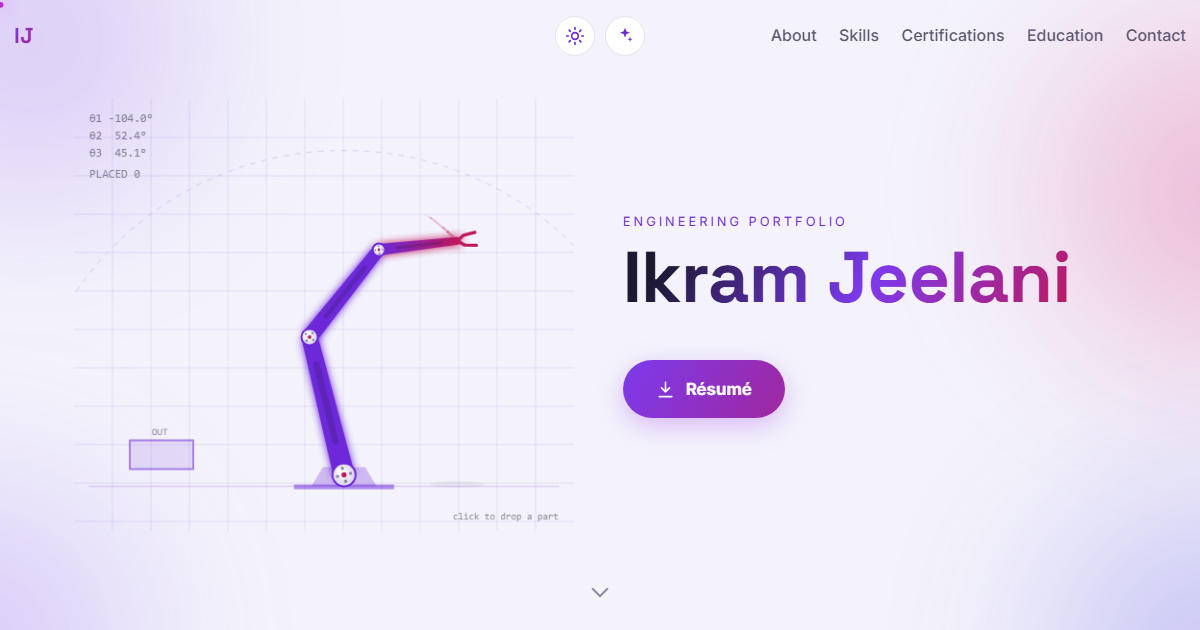
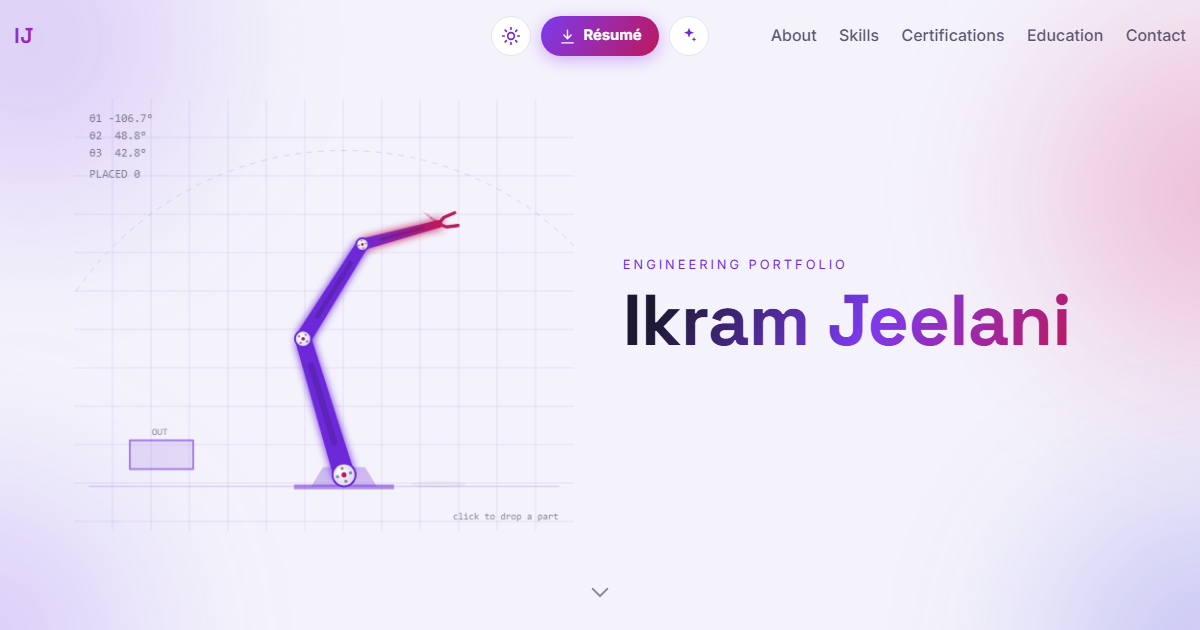
Remove the hero résumé button entirely — nav bar keeps the only résumé button now, present from first load with no scroll-triggered show/hide transition. Simplified all the crossfade/collapse machinery out of both main.js and styles.css since there's nothing left to swap between.
Fix sharing-preview image: SETTINGS.theme had been changed to "dark" but og:image/twitter:image in index.html and project.html were still pointing at the light screenshot (the static-reference limitation flagged in the previous commit actually bit us). Now correctly points at og-image-dark.png. Regenerated both og-image-light.png and og-image-dark.png to reflect the new nav-only button layout.

diff --git a/styles.css b/styles.css
@@ -247,49 +247,27 @@ h1, h2, h3,
 /* When particles are off, the sparkle button looks dimmed */
 .fx-toggle.off { color: var(--muted); opacity: 0.6; }
 
-/* Compact nav résumé button — same icon+label content as the hero pill, just
-   smaller, so it's unmistakably "that same button" once it appears. Collapsed
-   to max-width:0 (not just invisible) while hidden, so it takes up NO space
-   between the two toggles; scrolling past the hero button EXPANDS it open
-   from that zero point, pushing the toggles apart as it grows — the button
-   is "born" in the gap rather than popping/fading in on top of existing
-   layout. max-width (not width) because the label makes its content size
-   variable, and width can't transition to/from auto. */
+/* Nav résumé button — icon + label, always present between the theme and
+   particles toggles from first paint. No hero counterpart, no scroll-driven
+   show/hide, no transition: just a normal static button. */
 .nav-resume-btn {
   display: inline-flex;
   align-items: center;
   gap: 0.5rem;
-  max-width: 0;
   height: 40px;
-  padding: 0;
+  padding: 0 1.1rem;
   border-radius: 999px;
   background: var(--grad);
   color: #fff;
   font-weight: 700;
   font-size: 0.92rem;
   white-space: nowrap;
-  overflow: hidden;
   box-shadow: 0 4px 16px rgba(168, 85, 247, 0.45);
-  opacity: 0;
-  margin-right: 0;
-  pointer-events: none;
-  transition: max-width 0.4s cubic-bezier(0.4, 0, 0.2, 1),
-    padding 0.4s cubic-bezier(0.4, 0, 0.2, 1),
-    margin-right 0.4s cubic-bezier(0.4, 0, 0.2, 1), opacity 0.3s ease, box-shadow 0.2s ease;
-}
-.nav-resume-btn.show {
-  max-width: 220px;
-  padding: 0 1.1rem;
-  opacity: 1;
   margin-right: 0.6rem;
-  pointer-events: auto;
+  transition: box-shadow 0.2s ease;
 }
 .nav-resume-btn:hover { box-shadow: 0 6px 22px rgba(168, 85, 247, 0.65); }
 .nav-resume-btn svg { width: 17px; height: 17px; flex-shrink: 0; display: block; }
-@media (prefers-reduced-motion: reduce) {
-  .nav-resume-btn { transition: opacity 0.15s ease; }
-  .nav-resume-btn.show { max-width: 220px; padding: 0 1.1rem; margin-right: 0.6rem; }
-}
 
 /* Hamburger menu button (hidden until the links would crowd) */
 .nav-toggle {
@@ -319,9 +297,7 @@ h1, h2, h3,
 /* ===== Hero ===== */
 /* Fills the first viewport (minus the 72px sticky header) so the landing
    screen shows only the name — the About section starts below the fold.
-   Desktop: 2 columns, arm | (text+button as ONE grid item — see .hero-right).
-   Mobile: .hero-right unwraps via display:contents so the arm can sit
-   between the text block and the résumé button in a single stacked column. */
+   Desktop: 2 columns, arm | text. Mobile: stacks name then arm. */
 .hero {
   max-width: var(--max);
   margin: 0 auto;
@@ -350,14 +326,6 @@ h1, h2, h3,
   height: auto;
   display: block;
 }
-/* IMPORTANT: hero-visual must NOT span multiple rows shared with hero-text/
-   resume-btn. It's much taller than they are (arm graphic vs. a few lines of
-   text), and CSS Grid inflates auto-sized rows to fit whatever spans them —
-   that's what caused a ~150px phantom gap between the name and the button
-   when this used to be "visual text" / "visual button" as two rows. Grouping
-   text+button into one .hero-right item sidesteps the whole problem: now
-   there's only ONE row, sized by the taller of the two columns, and
-   align-items:center centers each column within it independently. */
 .hero-right {
   grid-area: right;
   display: flex;
@@ -370,22 +338,16 @@ h1, h2, h3,
 @media (max-width: 1180px) {
   .hero { grid-template-columns: minmax(0, min(44vw, 460px)) 1fr; }
 }
-/* Below ~1000px the columns get cramped — stack: name, then arm, then button.
-   Unwrap .hero-right (display:contents) so hero-text and resume-btn become
-   independent grid items again and the arm can sit between them; a single
-   row-gap then gives equal spacing across all three. */
+/* Below ~1000px the columns get cramped — stack: name, then arm. */
 @media (max-width: 1000px) {
   .hero {
     grid-template-columns: 1fr;
-    grid-template-areas: "text" "visual" "button";
+    grid-template-areas: "text" "visual";
     justify-items: center;
     row-gap: 2rem;
     text-align: center;
   }
-  .hero-right { display: contents; }
-  .hero-text { grid-area: text; }
-  .resume-btn { grid-area: button; }
-  .hero:not(:has(.resume-btn)) { grid-template-areas: "text" "visual"; }
+  .hero-right { grid-area: text; }
   .hero-visual { width: min(72vw, 340px); }
   .hero-text .subtitle { margin-left: auto; margin-bottom: 0; }
 }
@@ -439,66 +401,9 @@ h1, h2, h3,
   font-size: 1.1rem;
 }
 /* No bio text set: an empty paragraph still carries its 2rem margin, which
-   read as a mysterious, oversized, unexplained gap between the name and the
-   résumé button below it. Collapse it when there's nothing in it. */
+   read as a mysterious, oversized, unexplained gap under the name. Collapse
+   it when there's nothing in it. */
 .subtitle:empty { display: none; }
-
-/* ===== Résumé / CV button (hero) =====
-   The one "special" CTA on the page: gradient pill, a size bump so it holds
-   its own visually under the large name, and a soft breathing glow halo
-   (same breathing-glow language as the corner blobs/skill lines elsewhere
-   on the site) so it reads as more than an ordinary button. */
-.resume-btn {
-  position: relative;
-  display: inline-flex;
-  align-items: center;
-  gap: 0.65rem;
-  margin-top: 1.75rem;
-  padding: 1rem 2.1rem;
-  border-radius: 999px;
-  background: var(--grad);
-  background-size: 200% auto;
-  color: #fff;
-  font-weight: 700;
-  font-size: 1.05rem;
-  box-shadow: 0 8px 26px rgba(168, 85, 247, 0.35);
-  transition: transform 0.2s ease, box-shadow 0.25s ease, background-position 0.4s ease,
-    opacity 0.3s ease;
-}
-.resume-btn:hover {
-  transform: translateY(-3px);
-  box-shadow: 0 14px 34px rgba(168, 85, 247, 0.5);
-  background-position: 100% center;
-}
-/* Faded out once the nav button takes over on scroll. */
-.resume-btn-faded { opacity: 0; pointer-events: none; }
-.resume-btn svg { width: 19px; height: 19px; flex-shrink: 0; }
-.resume-btn::before {
-  content: "";
-  position: absolute;
-  inset: -2px;
-  z-index: -1;
-  border-radius: inherit;
-  background: var(--grad);
-  opacity: 0;
-  filter: blur(8px);
-}
-@media (prefers-reduced-motion: no-preference) {
-  .resume-btn::before { animation: resume-glow 2.8s ease-in-out infinite; }
-}
-/* Toned down from scale(1.1)/opacity 0.6 — at full strength the halo visibly
-   crept into the gap above the button on mobile, making it look closer to
-   the arm above it than the arm was to the name above that. */
-@keyframes resume-glow {
-  0%, 100% { opacity: 0; transform: scale(1); }
-  50% { opacity: 0.5; transform: scale(1.04); }
-}
-/* Stacked mobile hero: row-gap alone provides the spacing between the three
-   pieces — zero out the button's own top margin (meant for sitting snug
-   under the name on desktop) so name→arm and arm→button come out equal. */
-@media (max-width: 1000px) {
-  .resume-btn { margin-top: 0; }
-}
 
 /* ===== Buttons ===== */
 .btn {
@@ -1682,19 +1587,12 @@ html.theme-vt * { view-transition-name: none !important; }
   .section-title { font-size: 1.6rem; }
   .theme-toggle, .fx-toggle { width: 36px; height: 36px; }
   .theme-toggle { margin-right: 0.45rem; }
-  .nav-resume-btn { height: 36px; font-size: 0.82rem; gap: 0.4rem; }
+  .nav-resume-btn {
+    height: 36px;
+    font-size: 0.82rem;
+    gap: 0.4rem;
+    padding: 0 0.85rem;
+    margin-right: 0.45rem;
+  }
   .nav-resume-btn svg { width: 15px; height: 15px; }
-  /* 200px comfortably covers the label's real rendered width (~168px at
-     this font-size/padding) — measured directly, not guessed, since a
-     tighter cap here previously clipped the text mid-letter. */
-  .nav-resume-btn.show { max-width: 200px; padding: 0 0.85rem; margin-right: 0.45rem; }
-}
-/* Below ~380px, the full-label pill plus both toggles and the hamburger no
-   longer fit the header (measured: overflows by ~40px at 320px viewport).
-   Fall back to the original icon-only compact button there instead of
-   letting the header overflow. */
-@media (max-width: 380px) {
-  .nav-resume-btn { justify-content: center; gap: 0; }
-  .nav-resume-btn span { display: none; }
-  .nav-resume-btn.show { max-width: 36px; width: 36px; padding: 0; }
 }

diff --git a/main.js b/main.js
@@ -1065,84 +1065,28 @@
 
     const embed = toEmbed(RESUME.url);
     const title = ((window.PROFILE || {}).name || "") + " — Résumé";
-    const label = RESUME.label || "Download CV";
+    const label = RESUME.label || "Résumé";
 
     const icon =
       '<svg viewBox="0 0 24 24" fill="none" stroke="currentColor" stroke-width="2" ' +
       'stroke-linecap="round" stroke-linejoin="round" aria-hidden="true">' +
       '<path d="M12 3v12M7 10l5 5 5-5M4 21h16"/></svg>';
 
-    // Appended into .hero-right (a sibling of .hero-text, both inside the
-    // wrapper) so desktop treats [text + button] as ONE grid item beside the
-    // arm, while mobile's display:contents on the wrapper promotes it back
-    // to an independent grid item so it can sit after the arm there.
-    const heroSection = document.querySelector(".hero-right") || document.querySelector(".hero");
-    let heroBtn = null;
-    if (heroSection) {
-      heroBtn = document.createElement("a");
-      heroBtn.className = "resume-btn";
-      heroBtn.href = RESUME.url;
-      heroBtn.target = "_blank";
-      heroBtn.rel = "noopener";
-      heroBtn.setAttribute("data-pdf-title", title);
-      heroBtn.setAttribute("aria-label", label);
-      heroBtn.innerHTML = icon + "<span>" + label + "</span>";
-      if (embed) heroBtn.setAttribute("data-pdf", embed);
-      heroSection.appendChild(heroBtn);
-    }
-
+    // Nav-only — no hero button, no scroll-triggered show/hide transition.
+    // Just a normal, always-present button between the theme and particles
+    // toggles from the moment the page loads.
     const themeToggle = document.querySelector(".theme-toggle");
-    let navBtn = null;
-    if (themeToggle) {
-      navBtn = document.createElement("a");
-      navBtn.className = "nav-resume-btn";
-      navBtn.href = RESUME.url;
-      navBtn.target = "_blank";
-      navBtn.rel = "noopener";
-      navBtn.setAttribute("data-pdf-title", title);
-      navBtn.setAttribute("aria-label", label);
-      navBtn.innerHTML = icon + "<span>" + label + "</span>";
-      if (embed) navBtn.setAttribute("data-pdf", embed);
-      themeToggle.insertAdjacentElement("afterend", navBtn); // between the two toggles
-    }
-
-    // The nav button only appears once the hero button is no longer visible
-    // (scrolled under the sticky header) — never both at once. Driven by a
-    // rAF-throttled scroll check rather than IntersectionObserver: IO's
-    // callback can lag behind the actual scroll, so by the time it fires the
-    // button may already be far off-screen. A small hysteresis gap between
-    // the hide/show thresholds stops scroll jitter at the boundary from
-    // re-triggering the swap repeatedly. Plain crossfade — hero fades out,
-    // nav pill expands in — no flying/morphing clone.
-    if (heroBtn && navBtn) {
-      const HIDE_AT = 73;
-      const SHOW_AT = 93;
-      let heroVisible = true;
-      let firstCheck = true;
-      let ticking = false;
-      const check = () => {
-        ticking = false;
-        const r = heroBtn.getBoundingClientRect();
-        const threshold = heroVisible ? HIDE_AT : SHOW_AT;
-        const isVisible = r.bottom > threshold && r.top < window.innerHeight;
-        if (isVisible === heroVisible && !firstCheck) return;
-        heroVisible = isVisible;
-        navBtn.classList.toggle("show", !isVisible);
-        heroBtn.classList.toggle("resume-btn-faded", !isVisible);
-        firstCheck = false;
-      };
-      check(); // establish the correct initial state without animating
-      const onScroll = () => {
-        if (!ticking) {
-          ticking = true;
-          requestAnimationFrame(check);
-        }
-      };
-      window.addEventListener("scroll", onScroll, { passive: true });
-      window.addEventListener("resize", onScroll);
-    } else if (navBtn) {
-      navBtn.classList.add("show");
-    }
+    if (!themeToggle) return;
+    const navBtn = document.createElement("a");
+    navBtn.className = "nav-resume-btn";
+    navBtn.href = RESUME.url;
+    navBtn.target = "_blank";
+    navBtn.rel = "noopener";
+    navBtn.setAttribute("data-pdf-title", title);
+    navBtn.setAttribute("aria-label", label);
+    navBtn.innerHTML = icon + "<span>" + label + "</span>";
+    if (embed) navBtn.setAttribute("data-pdf", embed);
+    themeToggle.insertAdjacentElement("afterend", navBtn); // between the two toggles
   }
 
   /* ---------- Equal-height cert cards so "View Credential" lines up everywhere ---------- */

diff --git a/index.html b/index.html
@@ -14,17 +14,17 @@
   <!-- Open Graph (Facebook, LinkedIn, Slack, iMessage, WhatsApp…)
        og:image is a STATIC file reference — link-preview crawlers fetch raw
        HTML and never run JS, so it can't switch itself based on SETTINGS.theme
-       in data.js at request time. assets/og-image-light.png and
+       in data.js at request time. assets/og-image-dark.png and
        assets/og-image-dark.png are both screenshots of this same hero, one
        per theme. IMPORTANT: this points at -light.png because SETTINGS.theme
-       is currently "light" — if you change that default, swap both og:image
+       is currently "dark" — if you change that default, swap both og:image
        and twitter:image below (and in project.html) to the matching file. -->
   <meta property="og:type" content="website" />
   <meta property="og:site_name" content="Ikram Jeelani" />
   <meta property="og:title" content="Ikram Jeelani - Portfolio" />
   <meta property="og:description" content="Experience, projects, skills, certifications and education — by Ikram Jeelani." />
   <meta property="og:url" content="https://ikramjeelani.github.io/portfolio/" />
-  <meta property="og:image" content="https://ikramjeelani.github.io/portfolio/assets/og-image-light.png" />
+  <meta property="og:image" content="https://ikramjeelani.github.io/portfolio/assets/og-image-dark.png" />
   <meta property="og:image:width" content="1200" />
   <meta property="og:image:height" content="630" />
   <meta property="og:image:alt" content="Ikram Jeelani - Portfolio" />
@@ -34,7 +34,7 @@
   <meta name="twitter:card" content="summary_large_image" />
   <meta name="twitter:title" content="Ikram Jeelani - Portfolio" />
   <meta name="twitter:description" content="Projects, experience, skills, certifications and education — by Ikram Jeelani." />
-  <meta name="twitter:image" content="https://ikramjeelani.github.io/portfolio/assets/og-image-light.png" />
+  <meta name="twitter:image" content="https://ikramjeelani.github.io/portfolio/assets/og-image-dark.png" />
 
   <script src="data.js"></script>
   <script>try{var t=localStorage.getItem('theme')||((window.SETTINGS||{}).theme==='light'?'light':null);if(t)document.documentElement.setAttribute('data-theme',t);}catch(e){}</script>
@@ -76,11 +76,6 @@
     <div class="hero-visual" aria-hidden="true">
       <canvas class="hero-arm"></canvas>
     </div>
-    <!-- Groups the text block + résumé button (JS-appended) into ONE grid
-         item on desktop, so the arm doesn't have to span two separate rows
-         shared with them (see styles.css for why that mattered). On mobile
-         this wrapper goes display:contents, "unwrapping" its children back
-         into independent grid items so the arm can sit between them. -->
     <div class="hero-right">
       <div class="hero-text">
         <p class="eyebrow" data-role>Engineering Portfolio</p>

diff --git a/project.html b/project.html
@@ -11,22 +11,22 @@
 
   <!-- Sharing cards (project.js refines title/description/url per project).
        og:image is static — crawlers don't run JS, so it can't switch itself
-       on SETTINGS.theme at request time. Points at -light.png because that's
-       the current default in data.js; swap to -dark.png (here and in
-       index.html) if you change SETTINGS.theme to "dark". -->
+       on SETTINGS.theme at request time. Points at -dark.png because that's
+       the current default in data.js; swap to -light.png (here and in
+       index.html) if you change SETTINGS.theme to "light". -->
   <link rel="canonical" href="https://ikramjeelani.github.io/portfolio/" />
   <meta property="og:type" content="article" />
   <meta property="og:site_name" content="Ikram Jeelani" />
   <meta property="og:title" content="Project — Ikram Jeelani" />
   <meta property="og:description" content="An in-depth project write-up by Ikram Jeelani." />
   <meta property="og:url" content="https://ikramjeelani.github.io/portfolio/" />
-  <meta property="og:image" content="https://ikramjeelani.github.io/portfolio/assets/og-image-light.png" />
+  <meta property="og:image" content="https://ikramjeelani.github.io/portfolio/assets/og-image-dark.png" />
   <meta property="og:image:width" content="1200" />
   <meta property="og:image:height" content="630" />
   <meta name="twitter:card" content="summary_large_image" />
   <meta name="twitter:title" content="Project — Ikram Jeelani" />
   <meta name="twitter:description" content="An in-depth project write-up by Ikram Jeelani." />
-  <meta name="twitter:image" content="https://ikramjeelani.github.io/portfolio/assets/og-image-light.png" />
+  <meta name="twitter:image" content="https://ikramjeelani.github.io/portfolio/assets/og-image-dark.png" />
 
   <script src="data.js"></script>
   <script>try{var t=localStorage.getItem('theme')||((window.SETTINGS||{}).theme==='light'?'light':null);if(t)document.documentElement.setAttribute('data-theme',t);}catch(e){}</script>

diff --git a/data.js b/data.js
@@ -23,18 +23,17 @@ const PROFILE = {
 };
 
 /* ---------- 1b. RESUME / CV ----------
-   A "Download CV" button on the landing page (and in the nav once you scroll
-   past it). Clicking it opens the SAME in-page PDF viewer used for
-   certifications — visitors see it without leaving the site.
-   `show`:  true -> button appears. false -> hidden everywhere, no button at all.
-   `label`: the text shown next to the icon on both the hero button and the
-            nav button (identical content in both places).
+   A button in the nav bar (between the theme and particles toggles), always
+   present from the first load. Clicking it opens the SAME in-page PDF viewer
+   used for certifications — visitors see it without leaving the site.
+   `show`:  true -> button appears. false -> hidden, no button at all.
+   `label`: the text shown next to the icon.
    `url`:   path to your resume PDF. Put the file in assets/ (e.g.
             "assets/Resume.pdf") and point url at it — same as a certification's
             `url`, a GitHub "blob" link also works and is resolved automatically. */
 const RESUME = {
   show: true,
-  label: "Résumé", // text shown next to the icon on both buttons
+  label: "Résumé", // text shown next to the icon
   url: "assets/Resume.pdf",
 };
 
